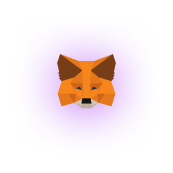
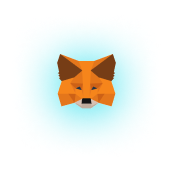
Color azul

Changed region(s): [[0.2312, 0.2312, 0.7803, 0.7514]]

diff --git a/src/components/SplashScreen.vue b/src/components/SplashScreen.vue
@@ -4,7 +4,8 @@
 <template>
     <div class="background">
         <div style="margin-left: auto; margin-right: auto;display: flex;justify-content: center;">
-            <img src="../../assets/img/Imagotipo.png" style="position: absolute;top: 25%;" />
+            <img src="../../assets/img/alien.png" style="position: absolute;top: 33%;" />
+            <img src="../../assets/img/wordmark.png" style="position: absolute;top: 53%;" />
         </div>
     </div>
 </template>

diff --git a/src/components/defaultBtn.vue b/src/components/defaultBtn.vue
@@ -22,7 +22,7 @@ export default {
 .btn {
     width: 198px;
     height: 43px;
-    background: linear-gradient(90deg, var(--main-color) 0%, var(--main-color-dark) 96.51%);
+    background: linear-gradient(90deg, var(--main-color) 0.01%, var(--main-color-dark) 99.9%);
     border-radius: 5px;
     display: flex;
     justify-content: center;

diff --git a/src/components/musicBtn.vue b/src/components/musicBtn.vue
@@ -48,7 +48,7 @@ export default {
     border-radius: 100%;
     width: 85px;
     height: 85px;
-    box-shadow: -2px -2px 15px rgba(142, 58, 237, 0.8), 5px 5px 15px #14121E;
+    box-shadow: -2px -2px 15px rgba(63, 116, 255, 0.8), 5px 5px 15px #14121E;
     filter: blur(0.5px);
     display: flex;
     justify-content: center;

diff --git a/assets/css/styles.css b/assets/css/styles.css
@@ -5,9 +5,9 @@
 :root {
   --background-color: #121212;
   --text-color: #FCFCFC;
-  --main-color:#B149F1;
-  --main-color-dark:#8E3AED;
-  --main-color-light:#DBA0FF;
+  --main-color:#00D8E7;
+  --main-color-dark:#3F74FF;
+  --main-color-light:#A0D2FF;
 }
 
 /* DOCUMENT STYLES */

diff --git a/src/pages/Home.vue b/src/pages/Home.vue
@@ -27,7 +27,7 @@ export default {
     .banner {
         width: 128.1px;
         height: 35.32px;
-        filter: drop-shadow(1px 1px 20px #AF48F1);
+        filter: drop-shadow(1px 1px 20px var(--main-color));
         margin: 30px 0;
     }
     .container {

diff --git a/src/components/Shows/Shows.vue b/src/components/Shows/Shows.vue
@@ -60,7 +60,7 @@ export default {
         font-size: 12px;
         line-height: 18px;
         text-decoration: none;
-        color: #A995CE;
+        color: #60A9D2;
     }
 
     .tools {
